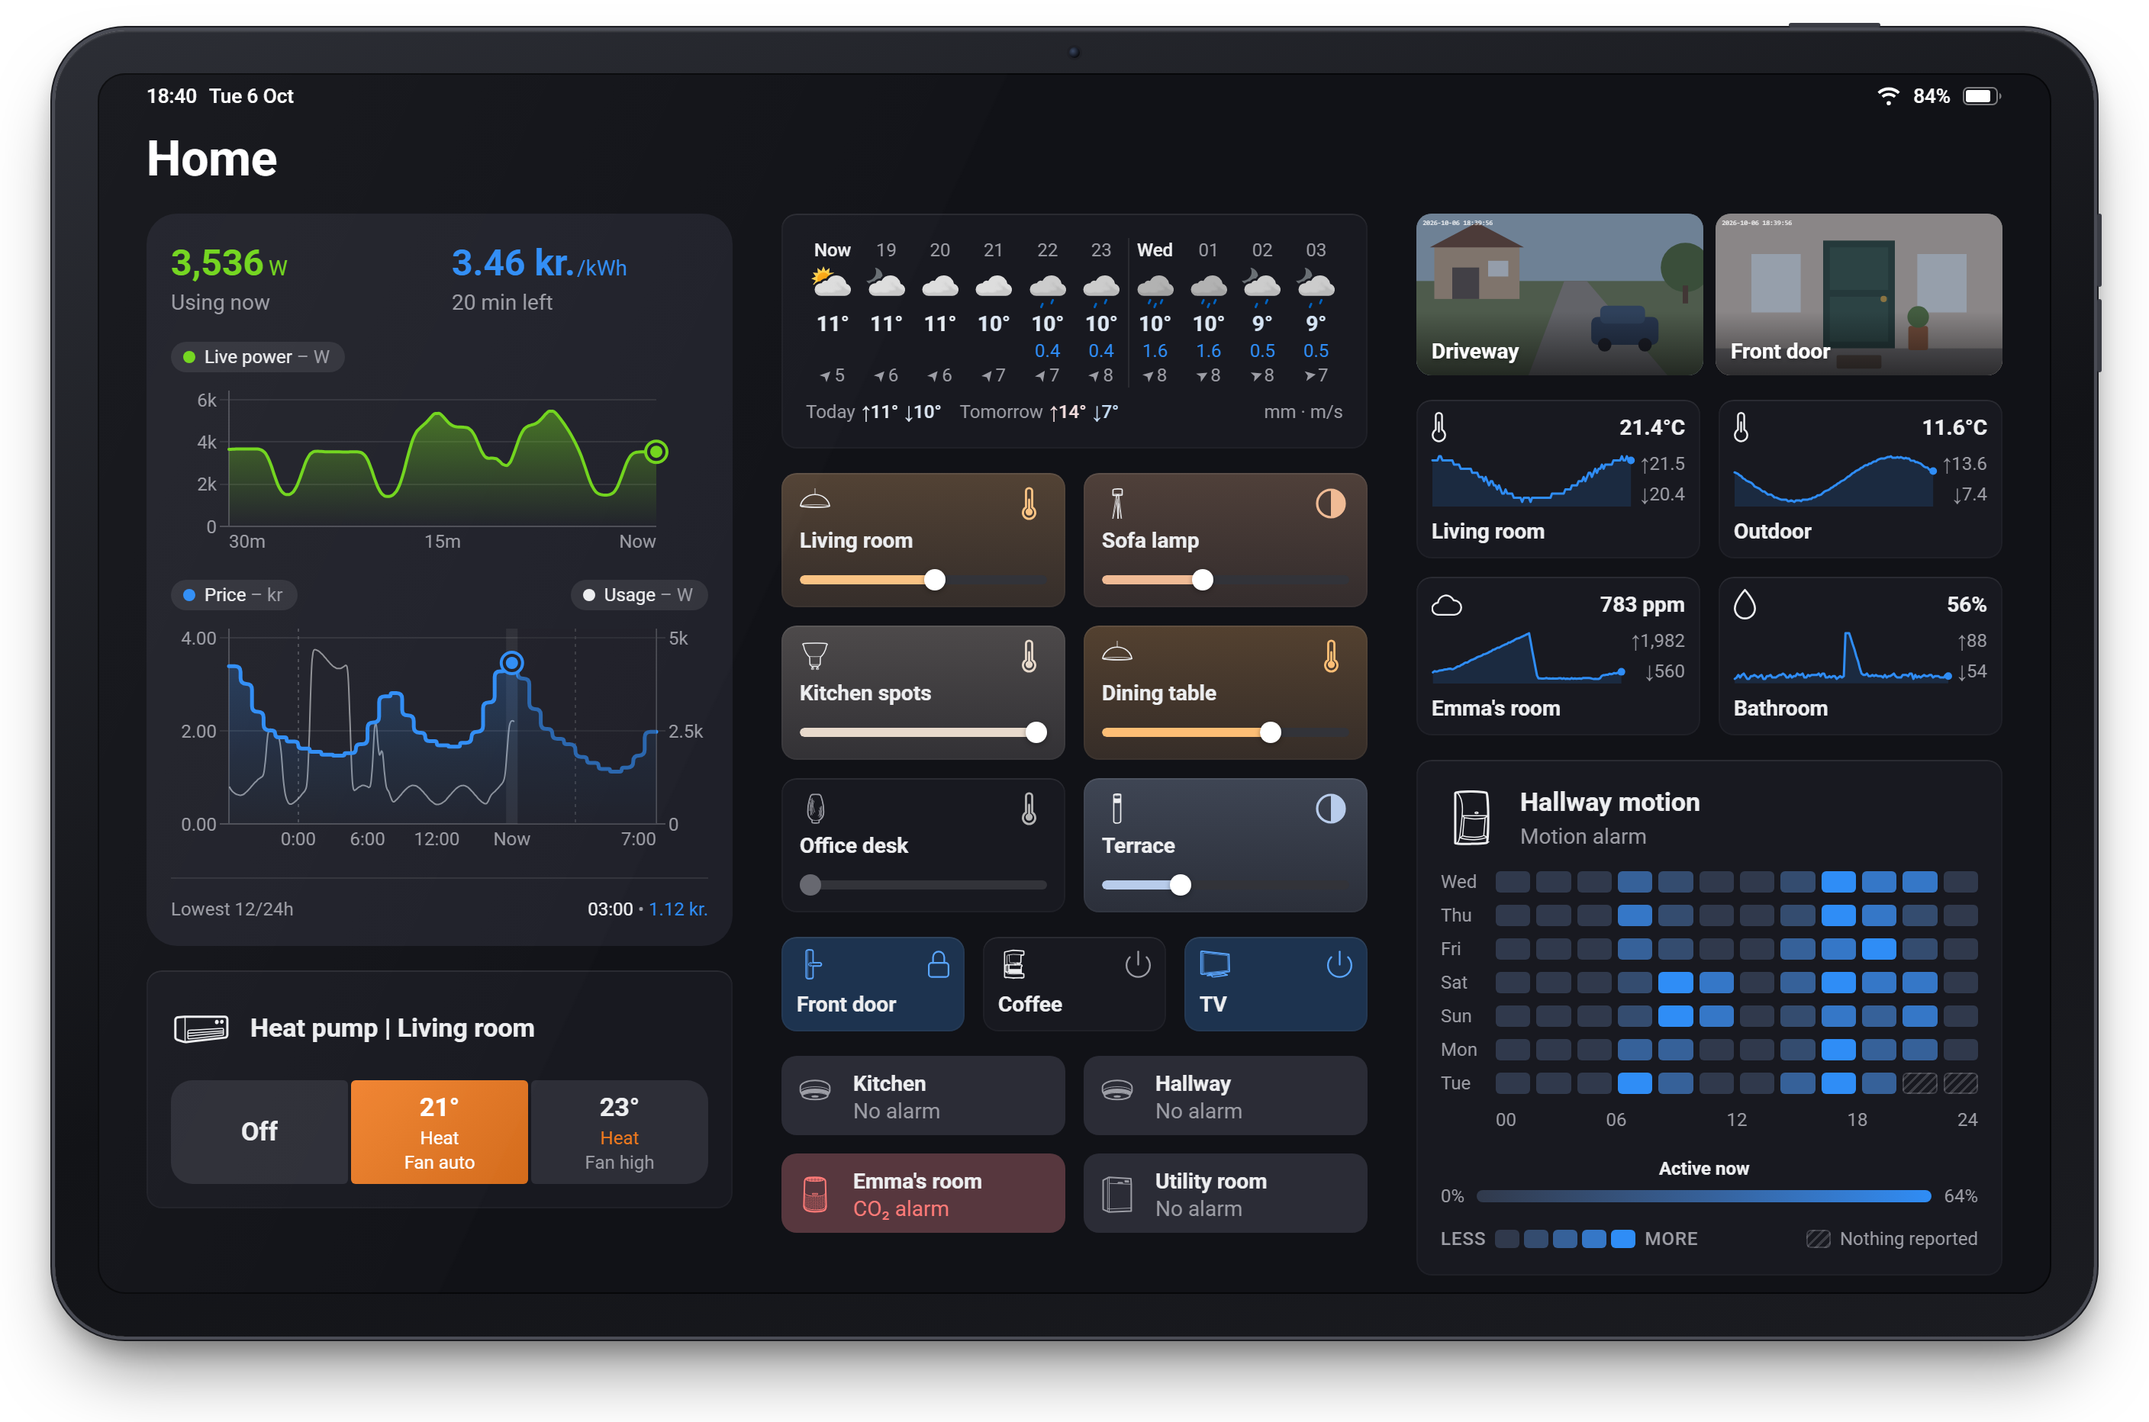
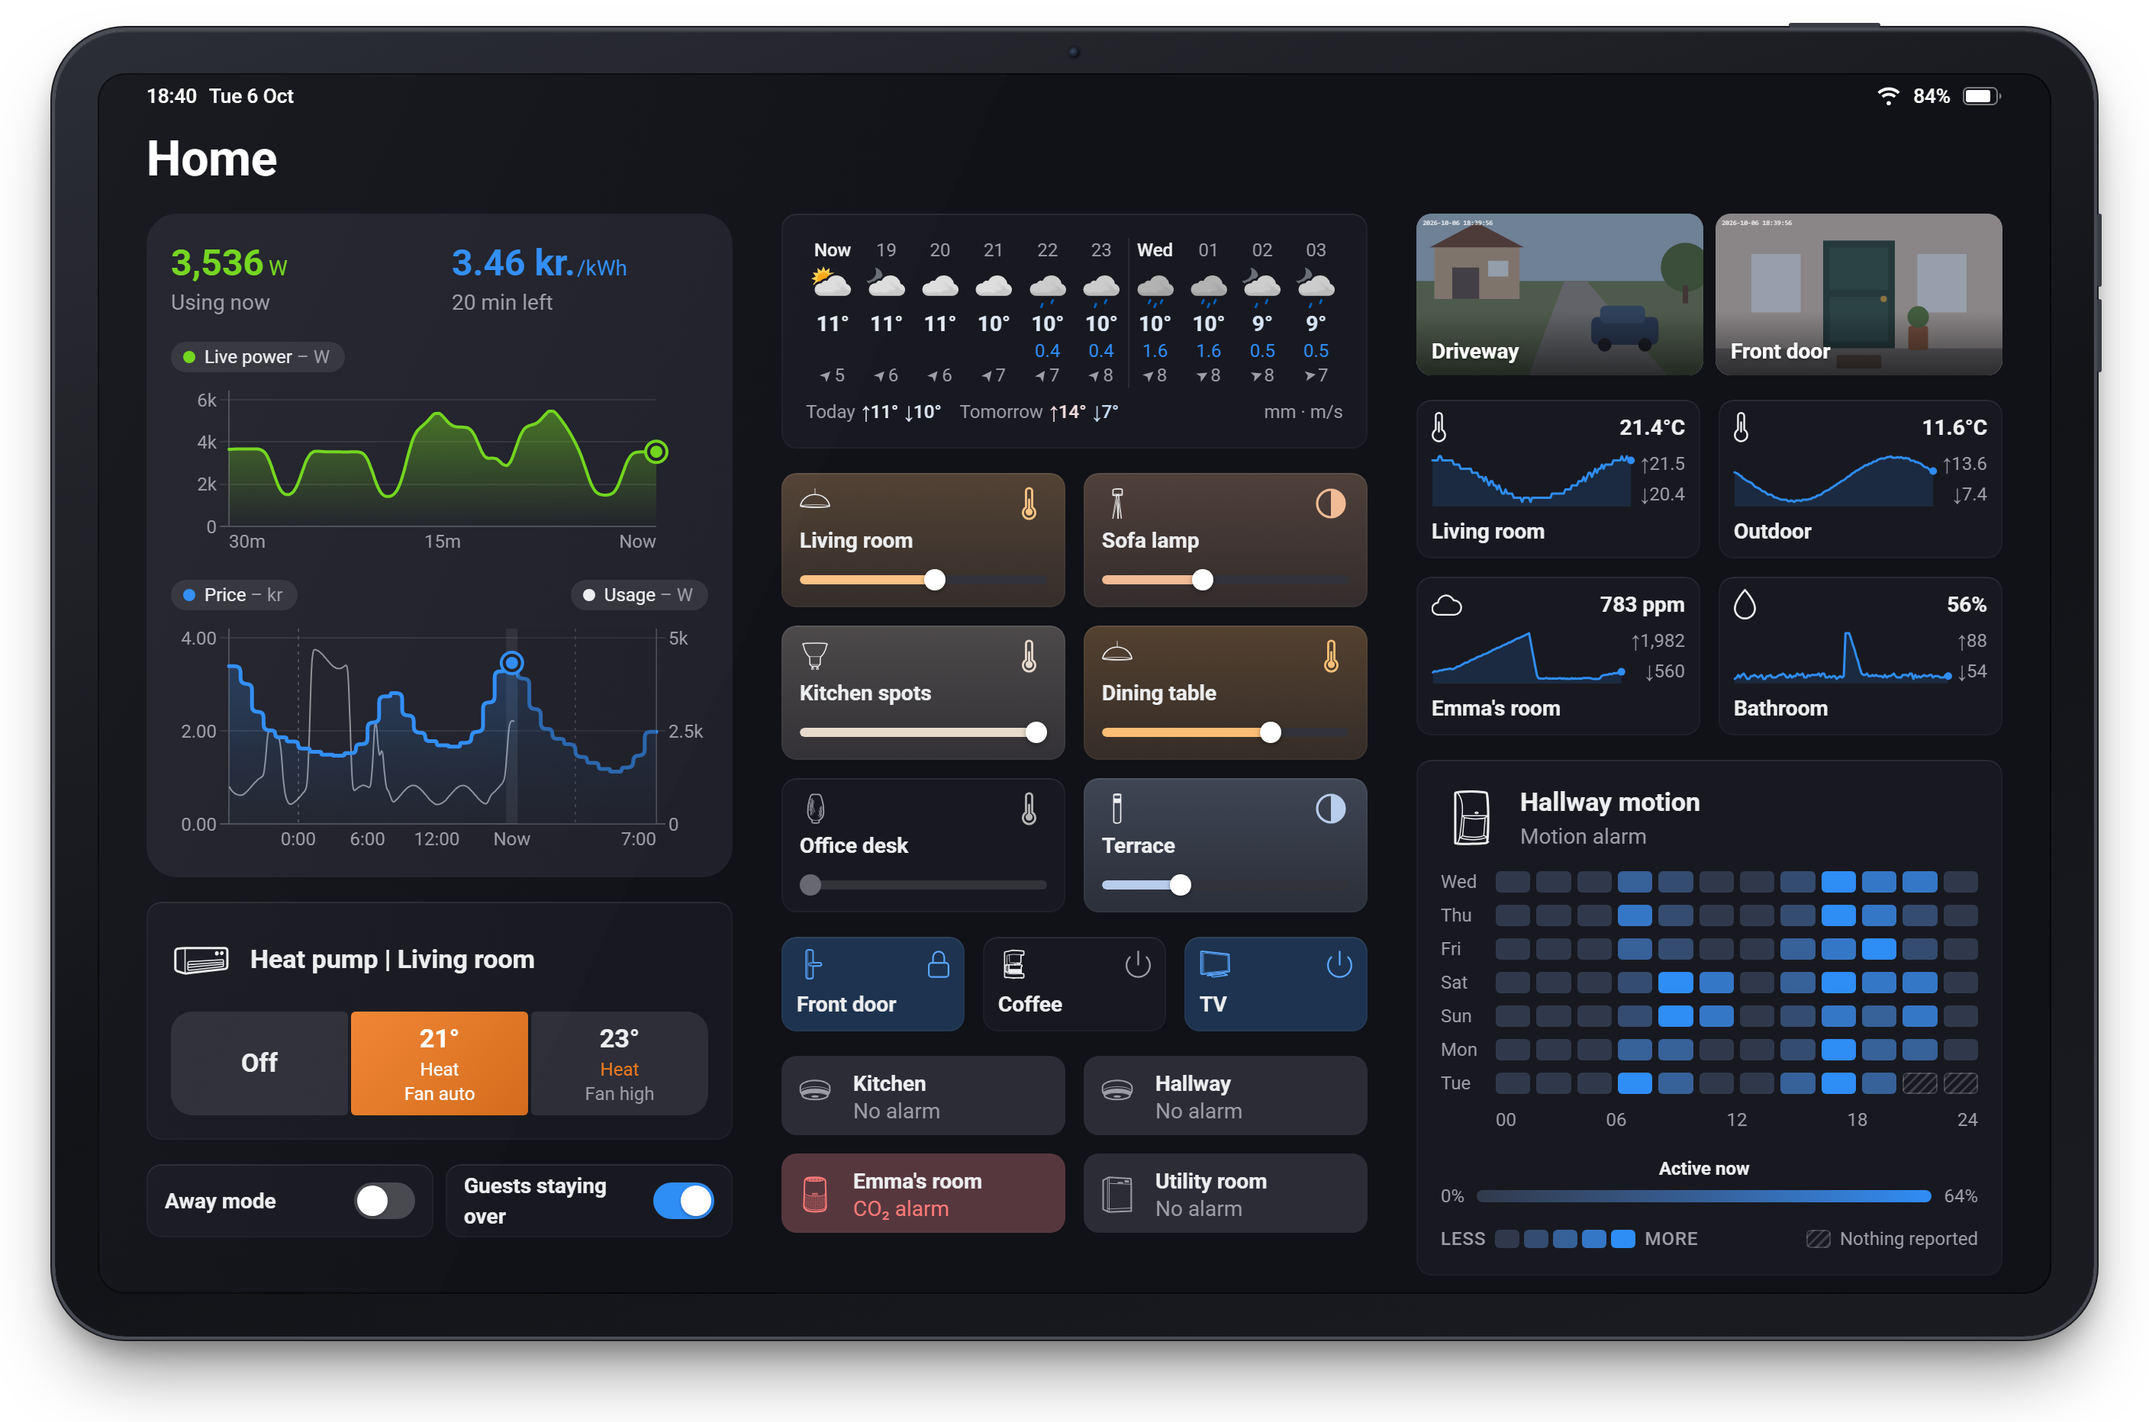
Docs for 0.8.0: fold 0.7.1 in, missing settings, dashboard examples
- CHANGELOG and .homeychangelog: 0.7.1 was never released on its own, so its
  changes are part of 0.8.0, with the hidden prices, the Flow tile colour, the
  heatmap colour and the clearer settings added (and a misplaced word in the
  Danish text fixed).
- README: the settings that were missing (show prices, heatmap colour, the
  brightness bar's far left, the thermostat's buttons), fixed prices and solar
  export, and a Dashboard examples section with all three showcase dashboards.
- Showcase: Flow Variables on the home and energy dashboards too, an orange
  heatmap and a Flow-coloured tile on the energy one.

Claude-Session: https://claude.ai/code/session_01PZZVc8wyA3FDcu8vWP5U9t

Changed region(s): [[0.0625, 0.6223, 0.3438, 0.8712]]

diff --git a/dev/showcase-data.js b/dev/showcase-data.js
@@ -218,8 +218,12 @@
       title: 'Home',
       columns: [
         [
-          { type: 'electricity', settings: { liveWindow: 30, nextLow: 'both', smooth: true }, data: electricity() },
+          { type: 'electricity', settings: { liveWindow: 30, nextLow: 'none', smooth: true }, data: electricity() },
           heatPump,
+          { type: 'variables', opts: { columns: '2' }, vars: [
+            { id: 'f1', name: 'Away mode', type: 'boolean', value: false },
+            { id: 'f2', name: 'Guests staying over', type: 'boolean', value: true },
+          ] },
         ],
         [
           { type: 'weather', hours: weatherHours() },
@@ -246,7 +250,7 @@
           { type: 'electricity', settings: { liveWindow: 60, nextLow: '24', smooth: true, separateUsage: true, usageColor: 'purple' }, data: electricity() },
         ],
         [
-          { type: 'heatmap', opts: { period: 'rolling', step: 2 }, data: heatPower() },
+          { type: 'heatmap', opts: { period: 'rolling', step: 2, color: 'orange' }, data: heatPower() },
           { type: 'sparklines', slots: [
             sparkSlot('m1', 'measure_power', 'Main meter', { units: 'W', decimals: 0 }, spark((t, r) => (t > NOW - DAY / 120 ? powerNow() : Math.round(houseLoad(t, r) + (t > NOW - 40 * MIN ? 1500 : 0))), 11)),
             sparkSlot('w1', 'measure_power', 'Heat pump', { units: 'W', decimals: 0 }, spark((t, r) => Math.round(520 + 260 * Math.sin(t / (41 * MIN)) + 40 * r()), 13)),
@@ -255,6 +259,10 @@
               const h = hourOf(t) + new Date(t).getMinutes() / 60;
               return Math.round(h >= 7.1 && h < 7.5 ? 62 - 50 * (h - 7.1) : h >= 7.5 && h < 13 ? 42 + 0.6 * (h - 7.5) : h >= 13 && h < 15 ? 45 + 8.5 * (h - 13) : 62 - 0.2 * ((h + 9) % 24) + r());
             }, 17)),
+          ] },
+          { type: 'variables', opts: { columns: '2' }, vars: [
+            { id: 'e1', name: 'Charge at the cheapest hours', type: 'boolean', value: true },
+            { id: 'e2', name: 'Price cap', type: 'number', value: 2.5 },
           ] },
         ],
         [
@@ -271,7 +279,8 @@
           { type: 'values', opts: { percentFill: true }, slots: [
             value('c1', 'measure_battery', 'Car', { units: '%', decimals: 0 }, 86),
             value('c2', 'measure_power', 'Car charger', { units: 'W', decimals: 0 }, 0),
-            value('m1', 'meter_power', 'Today', { units: 'kWh', decimals: 1 }, 31.4),
+            // Green from a Flow while today's use stays under budget.
+            { ...value('m1', 'meter_power', 'Today', { units: 'kWh', decimals: 1 }, 31.4), color: 'green' },
           ] },
         ],
       ],

diff --git a/README.md b/README.md
@@ -53,14 +53,16 @@ Compact rows to switch flow variables on and off or change a number or text, wit
 
 Live power use (30 seconds to 1 hour), the hourly price from yesterday to 12 hours ahead, the last 24 hours of usage and the cheapest upcoming hour. Tap a chart, or hover with a mouse, to see the value at that moment.
 
-Needs a device that reports power and dynamic prices switched on in Homey Energy (Homey Pro 12.6 or later).
+Works with dynamic prices or a fixed price set in Homey Energy (Homey Pro 12.6 or later); with a fixed price the header shows it and usage gets its own chart. Solar export shows below zero in yellow. Needs a device that reports power.
 
-**Settings:** power meter, live power window, usage history (on the price chart or separate, neutral or purple), smooth lines, lowest price in the next 12 h, 24 h or both.
+**Settings:** power meter, live chart time span, show electricity prices, usage history (on the price chart or separate, neutral or purple), smooth lines, lowest price in the next 12 h, 24 h or both.
 
 ## Thermostat Shortcuts
 <img src="docs/screenshots/thermostat.png" alt="Thermostat Shortcuts on a Homey dashboard" width="358">
 
 Three one-tap presets for a thermostat, heat pump or air conditioner, such as *Off*, *Heat 21°* and *Heat 24° · Fan level 5*. Each sets on/off, the target temperature, the mode and one extra option such as the fan speed. The matching preset lights up; otherwise the widget shows the device's current state.
+
+**Settings:** thermostat or aircon, and per button: power (on, off or unchanged), mode, temperature, and a fan or other setting.
 
 ## Device Quick Actions
 <img src="docs/screenshots/quickactions.png" alt="Device Quick Actions on a Homey dashboard" width="358">
@@ -90,7 +92,7 @@ Weather data from MET Norway, licensed under [CC BY 4.0](https://creativecommons
 
 A week of one Insights value as a grid of weekdays and hours, with a scale and a marker at the current value. Works with numbers (light, temperature, power …) and on/off values (motion, contact …), shown as the share of each hour they were on. On/off history fills in over the first days, as Insights keeps only their last 50 changes.
 
-**Settings:** device and value, this week or the last 3–14 days, 1–3 hours per column, show scale, show legend.
+**Settings:** device and value, this week or the last 3–14 days, 1–3 hours per column, colour (blue, red, orange, yellow, green or purple), show scale, show legend.
 
 ## Cameras
 <img src="docs/screenshots/cameras.png" alt="Cameras on a Homey dashboard" width="358">
@@ -106,21 +108,21 @@ Half-height tiles that each show one device value, such as a temperature, a batt
 
 A Flow can colour the tiles: the action card **Set the tile colour of … to …** gives every tile showing that value red, orange, yellow, green, blue or purple, and Default resets it. For example, a fridge thermometer blue below 5 °C and red above, or an internet check green while it passes and red when its alarm goes off.
 
-**Settings:** up to six values, 3 or 2 columns, fill percentages by level with adjustable limits.
+**Settings:** up to six values, 3 or 2 tiles per row, fill percentages by level with adjustable limits.
 
 ## Light Controls
 <img src="docs/screenshots/lights.png" alt="Light Controls on a Homey dashboard" width="358">
 
 Compact light tiles, six in the space of three of Homey's light cards. Tap a tile to turn the light on or off, drag or tap the bar to set the brightness, and tap the colour button (a half-filled circle, or a thermometer on white-only lights, in the light's colour) to pick a colour or a white from a row of swatches. On Android, tap the bar instead of dragging. Lights in the same room can share one tile that controls them all. Plugs and switches that only turn on and off get a tile without the bar.
 
-**Settings:** lights, colour palette (bright colours, warm from red to cool white, or dusk), group by room.
+**Settings:** lights, group by room, the brightness bar's far left (turns the light off, or dims to 1 % and stays on), colour palette (bright colours, warm from red to cool white, or dusk).
 
 ## Sparklines
 <img src="docs/screenshots/sparklines.png" alt="Sparklines on a Homey dashboard" width="358">
 
 Device Values' tiles with a small chart of each value from Insights, with its highest and lowest, following the live value.
 
-**Settings:** up to six values, time span (1 h, 6 h, 24 h or 7 days), 2 or 1 columns.
+**Settings:** up to six values, time span (1 h, 6 h, 24 h or 7 days), 2 or 1 tiles per row.
 
 ## Flow Variables
 <img src="docs/screenshots/variables.png" alt="Flow Variables on a Homey dashboard" width="358">
@@ -130,6 +132,21 @@ Homey's Logic variables as compact rows that show the full name: a switch for a 
 **Settings:** up to ten variables, 1 or 2 columns, and the step for − and +.
 
 Homey doesn't let apps change variables on their own, so changing them needs a Homey API key. In the Homey web app, create one under **Settings → API Keys** with permission to change variables. Then paste it under **Apps → Widgetkeeper → Configure**. The key stays on your Homey. Without a key the widget shows the variables but can't change them.
+
+## Dashboard examples
+Three dashboards from a made-up house, on a tablet in Homey's dark mode.
+
+**Home:** electricity, the heat pump, flow variables, the weather, lights, quick actions, sensor alarms, cameras, sparklines and a motion heatmap.
+
+<img src="docs/showcase/home.png" alt="A home dashboard with Widgetkeeper widgets on a tablet" width="100%">
+
+**Energy:** electricity with a separate purple usage chart, a power heatmap in orange, sparklines of the big consumers, the heat pump, the weather in detail, appliance quick actions, device values (*Today* coloured green by a Flow) and the car charging flags.
+
+<img src="docs/showcase/energy.png" alt="An energy dashboard with Widgetkeeper widgets on a tablet" width="100%">
+
+**Security:** six cameras, sensor alarms with motion and contact counted, door locks, a motion heatmap, battery levels filled by level, flow variables, outdoor lights and the weather.
+
+<img src="docs/showcase/security.png" alt="A security dashboard with Widgetkeeper widgets on a tablet" width="100%">
 
 ## Languages
 English, Dutch, German, French, Italian, Swedish, Norwegian, Spanish, Danish, Russian, Polish, Korean and Arabic, following Homey's language.

diff --git a/CLAUDE.md b/CLAUDE.md
@@ -16,7 +16,7 @@ Homey Pro app (`com.thomassidor.widgetkeeper`) that hosts custom dashboard widge
   - The README overview is no table: in a table GitHub's `max-width: 100%` lets the image column collapse on a phone, so the previews were nearly invisible. Each widget is one HTML `<p>`: a 120 px preview floated left (`align="left"`, a `<picture>` that follows the GitHub theme), the bold linked name, the description and `<br clear="left">`. The equal heights keep the text beside the image at phone width (358 px of content).
 - `npm run screenshots [-- thermostat …]`: renders the README screenshots (`docs/screenshots/*.png`) from `dev/screenshots.html`: the real widgets with mock data in Homey's dark mode, 358 px (a phone's widget width) at 3x, with no widget title and a transparent background so they sit flush with the README text. It downloads the Homey library icons the mock devices use into `temp/screenshot-icons.js` (not committed).
   - The data is the showcase's made-up house (`dev/showcase-data.js`, see below) on its fixed clock; `dev/mock-dashboard.js` picks a widget of each type from it (`find(type, n)`, in dashboard order) and mounts it. Never put real device names or readings in the renders.
-- `npm run showcase [-- home energy security]`: renders the showcase dashboards (`docs/showcase/<id>.png`; the README's top image is `home.png`) from `dev/showcase.html?d=<id>`: three columns of the real widgets on Homey's dark dashboard, on a drawn 16:10 tablet (a 1280 × 800 screen), at 2x on a transparent background.
+- `npm run showcase [-- home energy security]`: renders the showcase dashboards (`docs/showcase/<id>.png`; the README's top image is `home.png`, and its Dashboard examples section shows all three) from `dev/showcase.html?d=<id>`: three columns of the real widgets on Homey's dark dashboard, on a drawn 16:10 tablet (a 1280 × 800 screen), at 2x on a transparent background.
   - The data is a made-up house, "Solbakken", on Tuesday 6 October 2026 at 18:40 (`dev/showcase-data.js`); the page replaces `Date` to fix the clock, so every render is the same. The electricity widget uses `smooth`.
   - A dashboard is `SHOWCASE[id] = { title, columns: [[{ type, … }]] }`; `MOUNT` in `showcase.html` creates each widget type. A new dashboard is a new entry.
   - The script warns when a column runs off the screen (it's cut off, like a dashboard you'd scroll).
@@ -239,7 +239,7 @@ How this project uses it:
   - Reading, the events and the autocompletes still use the app's token. Without a usable key `/set` answers `{ok: false, reason: 'noKey' | 'keyScope' | 'keyInvalid'}` and the widget shows that message (`KEY_PROBLEMS`).
 - The service connects on the first `/state` and disconnects after 10 min without one. It re-reads every variable at most every 4 min (`$cache: false`) in case an event was missed. `set` checks the value against the type (finite numbers, strings up to 1000 characters).
 - Endpoints: `GET /state?ids=a,b` (`{id, name, type, value}` or `{id, missing: true}`, in order) and `POST /set {id, value}`. Realtime: `variables:state` with the same entry, only for ids asked for in the last 10 min. Widgets re-fetch every 5 min. The diagnostics report has a `variables` section (connection and counts, never values).
-- `dev/variables-preview.html`: 1 and 2 columns, dark, light, 300 px, with a simulated Homey (`Broken flag` fails). The showcase has one on the security dashboard (2 columns, made-up flags).
+- `dev/variables-preview.html`: 1 and 2 columns, dark, light, 300 px, with a simulated Homey (`Broken flag` fails). The showcase has one on each dashboard (2 columns, made-up flags).
 
 ## Diagnostics (no Docker needed)
 - **Read it yourself with `npm run diagnostics`** (`scripts/diagnostics.mjs`); don't ask the user to paste it. It calls the app's `GET /diagnostics` on the active Homey through `homey api raw`, which uses the CLI's login. Options: `-- --device <id|name>`, `--devices`, `--json`, `--debug on|off`, `--heatmap <deviceId>:<capabilityId>[:<days>]` (adds the heatmap's `/history` for it; note this starts recording a boolean, as a widget would). Right after an install the app may still be starting, so retry.

diff --git a/CHANGELOG.md b/CHANGELOG.md
@@ -15,23 +15,27 @@ All notable changes to Widgetkeeper. The version numbers match the Homey app ver
 ### Electricity Overview
 - Supports a fixed electricity price set in Homey Energy: the price shows in the header, and usage gets its own chart instead of the price chart.
 - Solar export: power below zero is drawn below the zero line in yellow, and the header says *Exporting now*.
+- New setting, *Show electricity prices*: turn it off to leave out the price, the price chart and the lowest price, for a card with only power and usage.
+- A brief connection problem no longer hides the charts.
+- The usage history comes back by itself when Homey's Insights were briefly unavailable as the widget opened.
+
+### Device Values
+- A Flow can colour the tiles: the new action card *Set the tile colour of … to …* makes every tile showing that value red, orange, yellow, green, blue or purple, and *Default* resets it. For example, a fridge thermometer blue while it's cold and red when it's too warm.
+
+### Insights Heatmap
+- New setting, *Colour*: blue (the default), red, orange, yellow, green or purple.
 
 ### Light Controls
 - New setting, *Brightness bar at the far left*: stop the bar at 1 % so the light stays on, instead of turning it off.
-
-## 0.7.1
+- Plugs and wall switches set up as lights can now be picked too. They only turn on and off, so their tiles have no brightness bar.
 
 ### Thermostat Shortcuts
 - A preset now always sets its temperature, also on aircons that keep a temperature per mode (switching mode used to bring back the mode's own temperature).
 - A renamed or deleted thermostat now shows without reopening the dashboard.
 - A brief connection problem no longer hides the buttons; the error shows for a moment instead.
 
-### Electricity Overview
-- A brief connection problem no longer hides the charts.
-- The usage history comes back by itself when Homey's Insights were briefly unavailable as the widget opened.
-
-### Light Controls
-- Plugs and wall switches set up as lights can now be picked too. They only turn on and off, so their tiles have no brightness bar.
+### All widgets
+- Clearer setting names, in a more logical order, with help texts.
 
 ## 0.7.0
 
